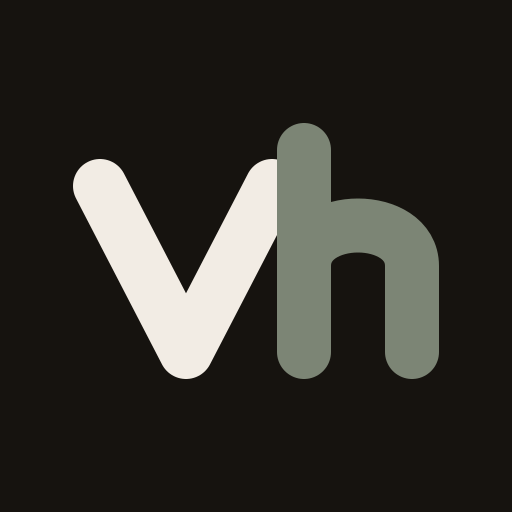
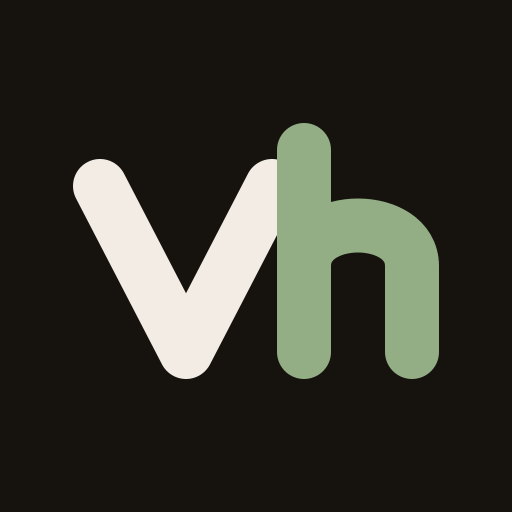
Brighten the accent to sage #93ad85
The accent moves from #7c8575 to the brighter #93ad85 (hover #a3bb96),
which keeps the sage family but reads as color on the dark background.
Dark button text is now 7.5:1. Favicons, app icons, and the share image
are recolored to match.

Changed region(s): [[0.5312, 0.2188, 0.875, 0.75]]

diff --git a/src/app/globals.css b/src/app/globals.css
@@ -1,7 +1,7 @@
 @import "tailwindcss";
 
 /* ---------------------------------------------------------------------------
-   VanHaus palette. Warm dark mode. Sage (#7c8575) is the only accent.
+   VanHaus palette. Warm dark mode. Sage (#93ad85) is the only accent.
    --------------------------------------------------------------------------- */
 :root {
   --bg: #16130f;
@@ -9,10 +9,10 @@
   --border: #3a322b;
   --text: #f2ece4;
   --text-muted: #b5aaa0;
-  --accent: #7c8575;
-  --accent-hover: #8a9383;
+  --accent: #93ad85;
+  --accent-hover: #a3bb96;
 
-  /* Text that sits on an accent background. Dark on sage passes AA (4.8:1); off-white on sage does not (3.3:1). */
+  /* Text that sits on an accent background. Dark on sage passes AA (7.5:1); off-white on sage does not. */
   --on-accent: #16130f;
 
   --radius: 16px;
